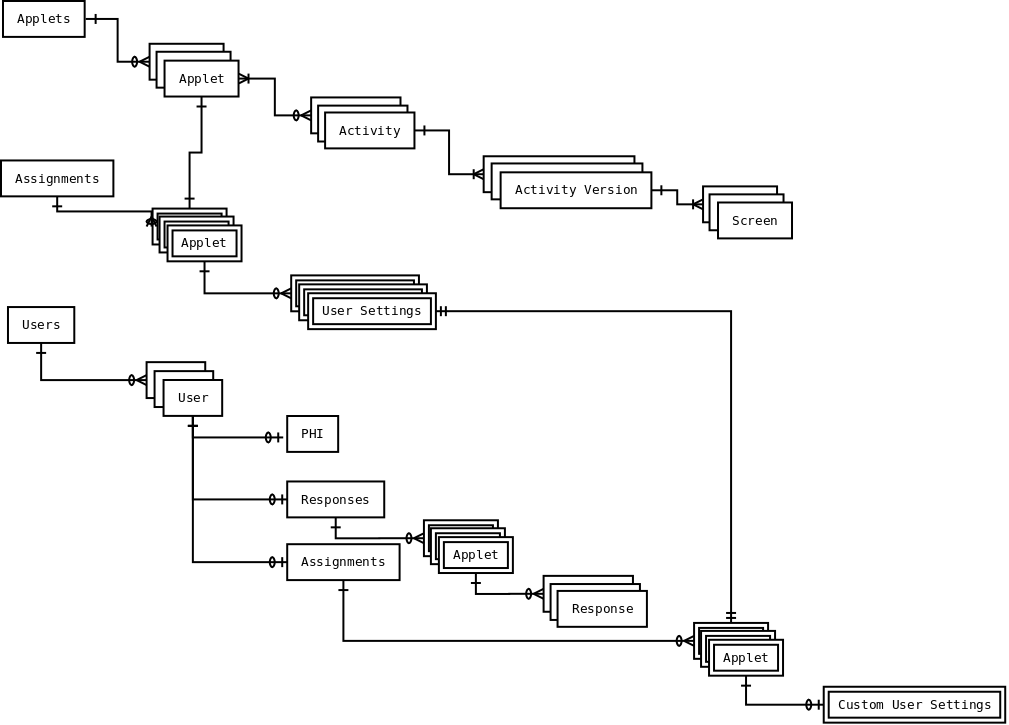
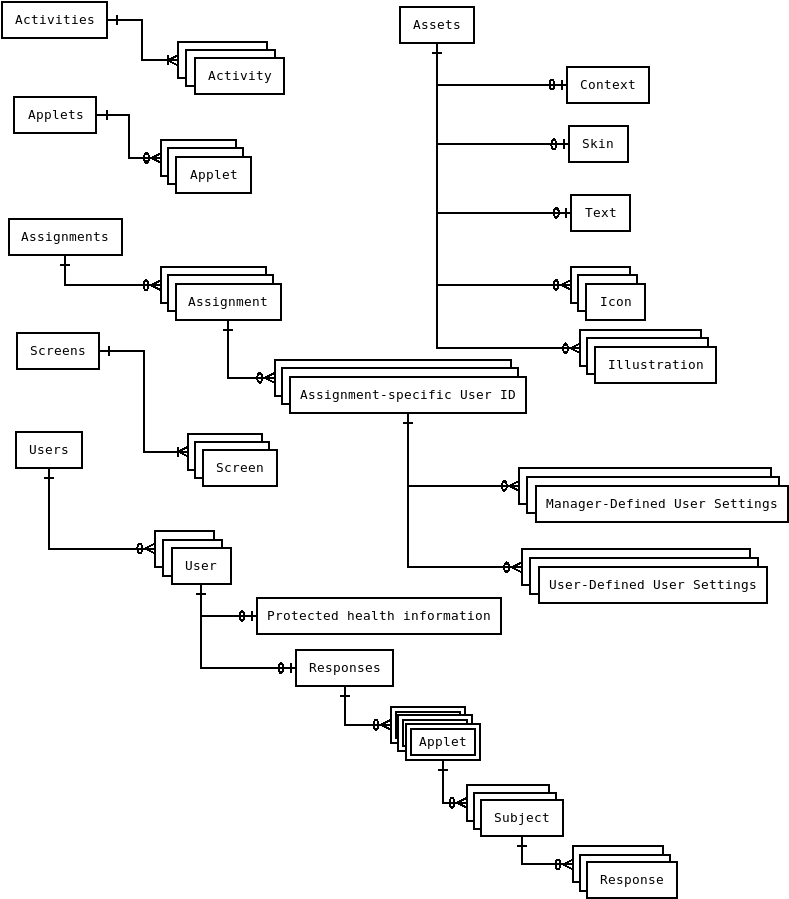
Data Structure Documentation (#135)
* Applet → Subject → Response

Ref https://matter-lab.slack.com/files/UE454RH4Y/FHA2LQB1N/screen_shot_2019-03-27_at_3.52.44_pm.png

* Applets

:books: Applet, Activity, Activity Version, Screen

Ref 27833458e662f427b5c053254548fb3df2018fc4

* Fix Links

* Add Internal Links

* :books: Annotate Manager-Controlled Entities

* :books: Update Docs to Remove Editor-role Complexity

* :books: Update Upstream Docs

* :books: 'Data Structure' Section

* :pencil: raw HTML Girder logo

* :fire: Oversized Logos

diff --git a/README.rst b/README.rst
@@ -1,191 +1,140 @@
-Girder for Mindlogger
-====================
-
-Reqirements
------------
-
-- MongoDB >= 3.6
-- Python >= 3.5
-  - CherryPy <=11.0.0
-- Node >= 8.0
-
-Installation
-------------
-
-1. Create and activate a virtual environment (replace ``~/girder_env`` if you want your virtual environment somewhere else). On launches after the first, only the line beginning with ``source`` is necessary.
-
-   .. code-block:: shell
-
-      python3 -m venv ~/girder_env
-      source ~/girder_env/bin/activate
-      pip install -U pip setuptools
-
-2. Start MongoDB.
-
-   .. code-block:: shell
-
-      mongod &
-
-3. From the root of this repository, install and build Girder for Mindlogger.
-
-   .. code-block:: shell
-
-      pip install -e .
-      girder build
-
-4. Start Girder for Mindlogger.
-
-   .. code-block:: shell
-
-      girder serve
-
-5. When you're finished
-
-   1. kill Girder for Mindlogger,
-
-      ``<Ctrl>`` + ``c``
-
-   2. kill MongoDB, and
-
-      .. code-block:: shell
-
-         fg
-
-      ``<Ctrl>`` + ``c``
-
-   3. deactivate your virtual environment.
-
-   .. code-block:: shell
-
-      deactivate
-
-Deployment
-----------
-
-Elastic Beanstalk
-#################
-
-If you're updating an existing Girder 2.x instance of Elastic Beanstalk, be sure to change your static files path from ``clients/web/static`` to ``girder/web_client/static/``. 
-
-
-Data Structure
---------------
-
-Mindlogger is moving towards the following data structure:
-
-.. figure:: ./docs/images/Mindlogger-DB-ER.png
-    :align: center
-    :alt: Mindlogger database entity-relationship diagram
-    :figclass: align-center
-    :target: ./docs/images/Mindlogger-DB-ER.dia
-
-    The above `entity-relationship diagram <https://cacoo.com/blog/er-diagrams-vs-eer-diagrams-whats-the-difference/>`_ was created with `dia 0.97+git <https://live.gnome.org/Dia>`_.
-
-Entities
-########
-
-Each entity is separately access controlled.
-
-Activity
-********
-
-Activity Version
-****************
-
-Applet
-******
-
-strong entity
-^^^^^^^^^^^^^
-
-weak entity (under Assignments)
-^^^^^^^^^^^^^^^^^^^^^^^^^^^^^^^
-
-weak entity (under Users)
-^^^^^^^^^^^^^^^^^^^^^^^^^
-
-Applets
-*******
-
-A Girder Collection
-
-Custom User Settings
-********************
-
-PHI
-***
-
-Response
-********
-
-Responses
-*********
-
-Screen
-******
-
-User
-****
-
-strong entity
-^^^^^^^^^^^^^
-
-weak entity
-^^^^^^^^^^^
-
-Users
-*****
-
-Links
------
-
-- Development instance: https://mindlogger-dev.vasegurt.com
-- Production instance: https://api.mindlogger.info
-- Run a local instance: If one clones our `girder <https://github.com/ChildMindInstitute/mindlogger-app-backend/tree/girder>`_ or `girder-dev <https://github.com/ChildMindInstitute/mindlogger-app-backend/tree/girder-dev>`_ branch of this repository, following `the official Girder documentation <https://girder.readthedocs.io/en/stable/admin-docs.html>`_ should get a local instance running.
-
-|logo| Girder |build-status| |docs-status| |license-badge| |gitter-badge| |codecov-badge|
------------------------------------------------------------------------------------------
+Girder for MindLogger |build-status| |license-badge| |codecov-badge|
+===========================================================================
 
 **Data Management Platform**
 
-This source code is a customization of `:octocat: girder/girder <https://github.com/girder/girder/tree/292690e7e4c269ed3b34757ba86ddfa2713f9f16>`_
+|logo|
+
+Contents
+--------
+1. `Data Structure <#data-structure>`_
+    1. `Diagram <#diagram>`_
+    2. `Glossary <#glossary>`_
+2. `Links <#links>`_
+3. `Girder Source <#girder-source>`_
+
+Data Structure
+--------------
+Girder for MindLogger has the following underlying data structure:
+
+Diagram
+#######
+.. figure:: ./docs/images/Mindlogger-DB-ER.png
+    :align: center
+    :alt: MindLogger database entity-relationship diagram
+    :figclass: align-center
+    :target: ./docs/images/Mindlogger-DB-ER.dia
+    The above `entity-relationship diagram <https://cacoo.com/blog/er-diagrams-vs-eer-diagrams-whats-the-difference/>`_ was created with `dia 0.97+git <https://live.gnome.org/Dia>`_.
+
+Glossary
+########
+
+Activity
+^^^^^^^^
+An "individual assessment", as defined in `ReproNim schema <https://github.com/ReproNim/schema-standardization/tree/0fb4abd67d209e76325e6f42d428d7c275252ec6#20-need-for-standardizing-assessments>`_: `Activity <https://raw.githubusercontent.com/ReproNim/schema-standardization/master/schemas/Activity.jsonld>`_.
+
+Applet
+^^^^^^
+A "collection[…] of `activities <#activity>`_ performed by a `participant <#user>`_" as defined in `ReproNim schema <https://github.com/ReproNim/schema-standardization/tree/0fb4abd67d209e76325e6f42d428d7c275252ec6#20-need-for-standardizing-assessments>`_: `ActivitySet <https://raw.githubusercontent.com/ReproNim/schema-standardization/master/schemas/ActivitySet.jsonld>`_.
+
+Assignment
+^^^^^^^^^^
+A document assigning one or more `applets <#applet>`_ to one or more `users <#user>`_ with or without scheduling and other constraints.
+
+Assignment-specific User ID
+^^^^^^^^^^^^^^^^^^^^^^^^^^^
+An identifier for a given `user <#user>`_ for an `assignment <#assignment>`_ that does not expose that user's other data to anyone authorized to view information related to that assignment.
+
+Context
+^^^^^^^
+    A set of rules for interpreting a JSON-LD document [from this database] as specified in The Context of the JSON-LD Syntax specification."
+
+This definition comes from `JSON-LD 1.1 <https://json-ld.org/spec/latest/json-ld/>`_ `context <https://json-ld.org/spec/latest/json-ld/#dfn-contexts>`_.
+
+Icon
+^^^^
+
+Illustration
+^^^^^^^^^^^^
+
+Protected health information
+^^^^^^^^^^^^^^^^^^^^^^^^^^^^
+    Any information about health status, provision of health care, or payment for health care that […] can be linked to a specific `individual <#user>`_.
+
+This definition comes from the Wikipedia article `Protected health information <https://en.wikipedia.org/wiki/Protected_health_information>`_.
+
+Response
+^^^^^^^^
+Data collected when a `user <#user>`_ responds to an `activity <#activity>`_.
+
+Screen
+^^^^^^
+One or more "elements of individual assessments" displayed in a single screen or page view, as defined in `ReproNim schema <https://github.com/ReproNim/schema-standardization/tree/0fb4abd67d209e76325e6f42d428d7c275252ec6#20-need-for-standardizing-assessments>`_: `Item <https://raw.githubusercontent.com/ReproNim/schema-standardization/master/schemas/Field.jsonld>`_ and `Issue #85 <https://github.com/ReproNim/schema-standardization/issues/85>`_.
+
+Skin
+^^^^
+Color scheme and other branding and appearance-related metadata.
+
+Subject
+^^^^^^^
+The person being informed about by the `user <#user>`_ `responding <#response>`_ to an `activity <#activity>`_. For self-report, the same user as the informant.
+
+Text
+^^^^
+Copy included in the mobile and web app, including "About MindLogger" and helper text.
+
+User
+^^^^
+An individual using a MindLogger mobile application or MindLogger web application to `respond <#response>`_ to `activities <#activity>`_.
+
+Manager-Defined User Settings
+^^^^^^^^^^^^^^^^^^^^^^^^^^^^^
+Settings for an `assignment <#assignment>`_ that are altered from the default for a given `user <#user>`_ by another user.
+
+User-Defined User Settings
+^^^^^^^^^^^^^^^^^^^^^^^^^^
+Settings for an `assignment <#assignment>`_ that are altered from the default for a given `user <#user>`_ by themself.
+
+Links
+-----
+- `ReproNim Schema specification <https://github.com/ReproNim/schema-standardization>`_
+- `Development instance <https://mindlogger-dev.vasegurt.com>`_
+- `Production instance <https://api.mindlogger.info>`_
+- `Run a local instance <#requirements>`_
+
+Girder Source
+-------------
+
+This source code is a customization of `:octocat: girder/girder@5ed7bdd <https://github.com/girder/girder/tree/5ed7bdd850e9dc8657cf25984627628374811048>`_
 
 Girder is a free and open source web-based data management platform developed by
-`Kitware <https://kitware.com>`_ as part of the `Resonant <http://resonant.kitware.com>`_
-data and analytics ecosystem.
-
-|kitware-logo|
+`Kitware <https://kitware.com>`_ as part of the `Resonant <https://resonant.kitware.com>`_ data and analytics ecosystem.
 
 Documentation of the Girder platform can be found at
-https://girder.readthedocs.io.
+`:closed_book: Read the Docs <https://girder.readthedocs.io/en/latest>`_.
 
-For questions, comments, or to get in touch with the maintainers, head to our `Discourse forum <https://discourse.girder.org>`_, or use our `Gitter Chatroom
+For questions, comments, or to get in touch with the maintainers, head to their `Discourse forum <https://discourse.girder.org>`_, or use their `Gitter Chatroom
 <https://gitter.im/girder/girder>`_.
 
 We'd love for you to `contribute to Girder <CONTRIBUTING.rst>`_.
 
-.. |logo| image:: girder/web_client/static/img/ML_Favicon.png
+.. |logo| image:: ./girder/web_client/src/assets/ML-logo.png
+    :width: 25px
+    :alt: Girder for MindLogger
 
 .. |kitware-logo| image:: https://www.kitware.com/img/small_logo_over.png
     :target: https://kitware.com
     :alt: Kitware Logo
 
-.. |build-status| image:: https://circleci.com/gh/girder/girder.png?style=shield
-    :target: https://circleci.com/gh/girder/girder
+
+.. |build-status| image:: https://circleci.com/gh/ChildMindInstitute/mindlogger-app-backend.svg?style=svg
+    :target: https://circleci.com/gh/ChildMindInstitute/mindlogger-app-backend
     :alt: Build Status
 
-.. |docs-status| image:: https://readthedocs.org/projects/girder/badge?version=latest
-    :target: https://girder.readthedocs.org
-    :alt: Documentation Status
-
 .. |license-badge| image:: docs/license.png
-    :target: https://pypi.python.org/pypi/girder
+    :target: LICENSE
     :alt: License
 
-.. |gitter-badge| image:: https://badges.gitter.im/Join Chat.svg
-    :target: https://gitter.im/girder/girder?utm_source=badge&utm_medium=badge&utm_campaign=pr-badge&utm_content=badge
-    :alt: Gitter Chat
-
-.. |codecov-badge| image:: https://img.shields.io/codecov/c/github/girder/girder.svg
-    :target: https://codecov.io/gh/girder/girder
+.. |codecov-badge| image:: https://img.shields.io/codecov/c/github/ChildMindInstitute/mindlogger-app-backend.svg
+    :target: https://codecov.io/gh/ChildMindInstitute/mindlogger-app-backend
     :alt: Coverage Status
